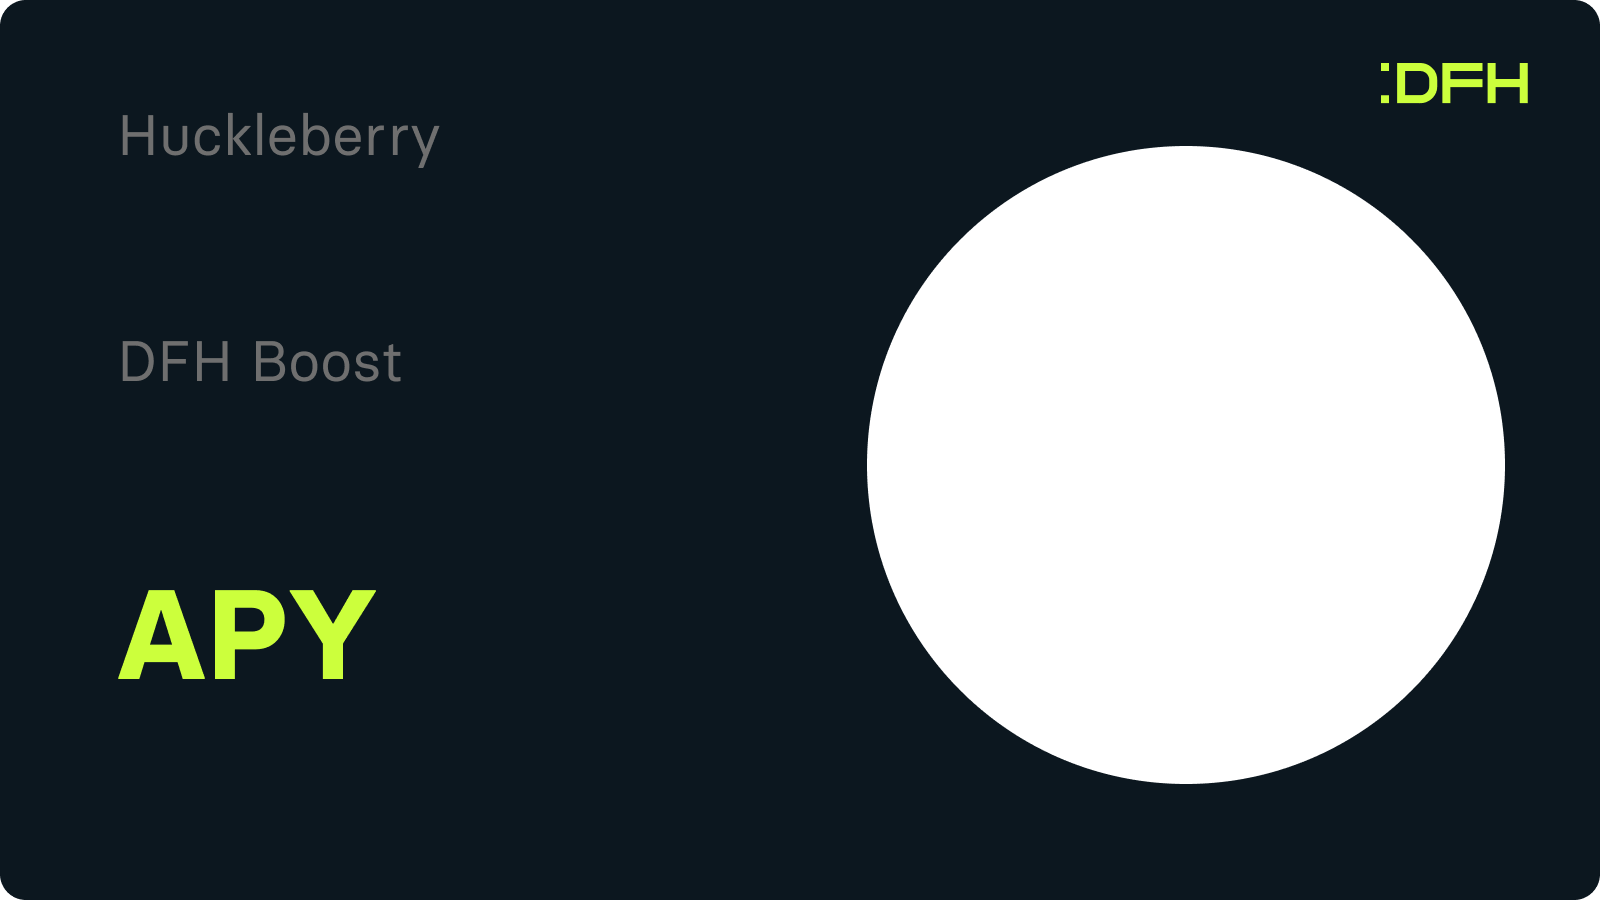
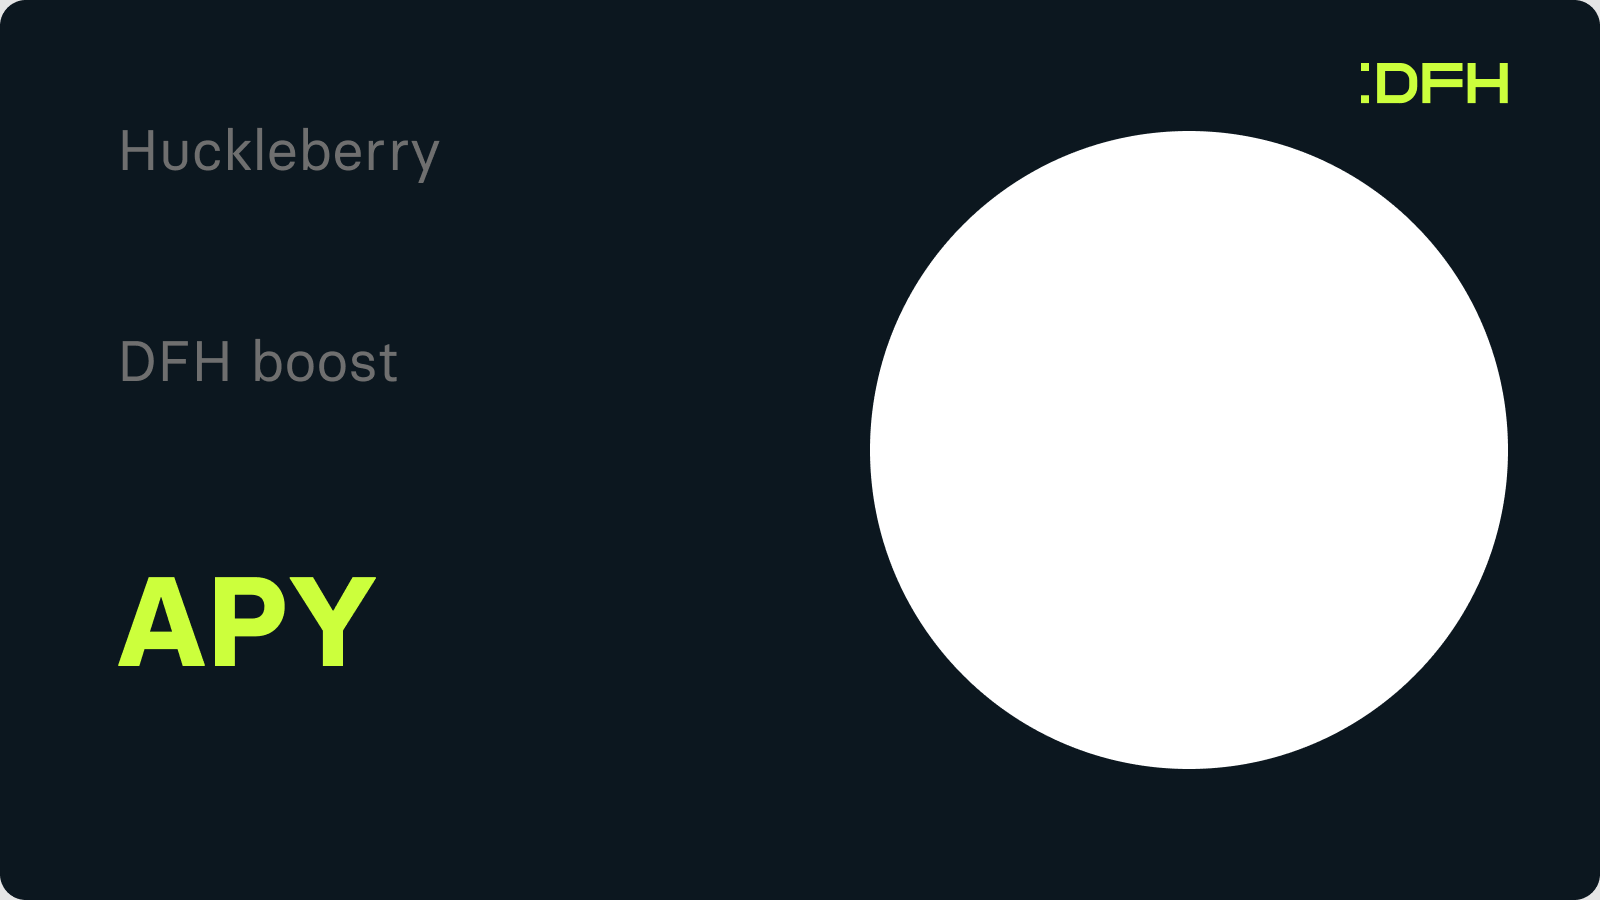
fix

diff --git a/src/api/router.ts b/src/api/router.ts
@@ -18,6 +18,18 @@ import * as Automate from '@api/schema/automate';
 import * as restakeStrategySchemas from '@api/schema/restakeStrategy';
 import * as treasurySchemas from '@api/schema/treasury';
 import Jimp from 'jimp';
+import { metricContractTableName } from '@models/Metric/Entity';
+import { contractTableName } from '@models/Protocol/Entity';
+import { apyBoost } from '@services/RestakeStrategy';
+import BN from 'bignumber.js';
+import { Blockchain } from '@models/types';
+
+interface AprMetric {
+  contract: string;
+  apr: number;
+  blockchain: Blockchain;
+  network: string;
+}
 
 export function route({ express, server }: { express: Express; server: Server }) {
   const apollo = new ApolloServer({
@@ -182,20 +194,60 @@ export function route({ express, server }: { express: Express; server: Server })
     const { protocolId } = req.params;
     const protocol = await container.model.protocolTable().where('id', protocolId).first();
 
-    const apyWithoutDFH = 'APY 197%';
-    const apyWithDFH = 'APY +432%';
-    const apyTotal = '678%';
-
     if (!protocol) {
-      return res.send('protocol not found');
+      return res.status(503).send('protocol not found');
     }
 
-    if (!protocol.icon) {
-      return res.send('protocol have no picture');
+    if (!protocol.previewPicture) {
+      return res.status(503).send('protocol have no picture');
     }
 
     const maxLogoWidth = 450;
     const maxLogoHeight = 450;
+
+    const database = container.database();
+    const aprMetrics: AprMetric[] = await container.model
+      .metricContractTable()
+      .distinctOn(`${metricContractTableName}.contract`)
+      .column(`${contractTableName}.blockchain`)
+      .column(`${contractTableName}.network`)
+      .column(`${metricContractTableName}.contract`)
+      .column(database.raw(`(${metricContractTableName}.data->>'aprYear')::numeric AS apr`))
+      .innerJoin(
+        contractTableName,
+        `${contractTableName}.id`,
+        `${metricContractTableName}.contract`,
+      )
+      .where(`${contractTableName}.protocol`, protocol.id)
+      .andWhere(database.raw(`${metricContractTableName}.data->>'aprYear' IS NOT NULL`))
+      .orderBy(`${metricContractTableName}.contract`)
+      .orderBy(`${metricContractTableName}.date`, 'DESC');
+
+    const calculatedApyList = await Promise.all(
+      aprMetrics.map(async (apr) => {
+        const boost = await apyBoost(
+          apr.blockchain,
+          apr.network,
+          10000,
+          new BN(apr.apr).toNumber(),
+        );
+
+        const actualBoost = new BN(boost).minus(apr.apr).toNumber();
+
+        return {
+          initial: new BN(apr.apr).toNumber(),
+          boosted: actualBoost > 0 ? actualBoost : 0,
+        };
+      }),
+    );
+
+    const avgInitialApy =
+      calculatedApyList.reduce((prev, curr) => new BN(prev).plus(curr.initial).toNumber(), 0) /
+      calculatedApyList.length;
+
+    const avgBoostedApy =
+      calculatedApyList.reduce((prev, curr) => new BN(prev).plus(curr.boosted).toNumber(), 0) /
+      calculatedApyList.length;
 
     const [
       templateInstance,
@@ -205,21 +257,37 @@ export function route({ express, server }: { express: Express; server: Server })
       totalApyFont,
     ] = await Promise.all([
       Jimp.read(`${__dirname}/../assets/opengraph-template.png`),
-      Jimp.read(protocol.icon),
+      Jimp.read(protocol.previewPicture),
       Jimp.loadFont(`${__dirname}/../assets/font-without-dfh/FCK4eZkmzDMwvOVkx7MoTdys.ttf.fnt`),
-
       Jimp.loadFont(`${__dirname}/../assets/font-with-dfh/KDHm2vWUrEv1xTEC3ilBxVL2.ttf.fnt`),
       Jimp.loadFont(`${__dirname}/../assets/font-total-apy/QHPbZ5kKUxcehQ40MdnPZLK9.ttf.fnt`),
     ]);
 
     // protocols's apy
-    await templateInstance.print(withoutDfhFont, 117, 160, apyWithoutDFH);
+    await templateInstance.print(
+      withoutDfhFont,
+      117,
+      175,
+      `APY ${avgInitialApy > 10000 ? '>10000' : avgInitialApy.toFixed()}%`,
+    );
 
     // boosted apy
-    await templateInstance.print(withDfhBoostedFont, 117, 390, apyWithDFH);
+    await templateInstance.print(
+      withDfhBoostedFont,
+      117,
+      380,
+      `APY ${avgBoostedApy > 10000 ? '>10000' : avgBoostedApy.toFixed()}%`,
+    );
 
     // total apy
-    await templateInstance.print(totalApyFont, 117, 670, apyTotal);
+    await templateInstance.print(
+      totalApyFont,
+      117,
+      660,
+      `${
+        avgBoostedApy + avgInitialApy > 20000 ? '>20000' : (avgBoostedApy + avgInitialApy).toFixed()
+      }%`,
+    );
 
     // protocol logo
     protocolLogoInstance.resize(maxLogoWidth, Jimp.AUTO);

diff --git a/src/queue/pools/swopfiLPFarming.ts b/src/queue/pools/swopfiLPFarming.ts
@@ -24,7 +24,7 @@ export default async (process: Process) => {
   if (!protocol) {
     protocol = await container.model
       .protocolService()
-      .create(adapterName, protocolName, protocolDescription, null, null, {}, false);
+      .create(adapterName, protocolName, protocolDescription, null, null, null, {}, false);
   }
   const contracts = await container.model.contractTable().where('protocol', protocol.id).select();
   const pools = (await axios.get<{ data: SwopFiPool[] }>(`https://backend.swop.fi/farming/info`))

diff --git a/src/services/RestakeStrategy/index.ts b/src/services/RestakeStrategy/index.ts
@@ -136,10 +136,11 @@ export async function apyBoost(
   network: string,
   balance: number,
   apy: number,
-) {
+): Promise<string> {
   const optimalPoints = await optimalRestake(blockchain, network, balance, apy);
   const lastPoint = optimalPoints[optimalPoints.length - 1];
   if (!lastPoint) return '0';
 
-  return new BN(lastPoint.v).minus(balance).div(balance).toString(10);
+  const num = new BN(lastPoint.v).minus(balance).div(balance);
+  return num.isFinite() ? num.toString(10) : '0';
 }

diff --git a/src/models/Protocol/Service.ts b/src/models/Protocol/Service.ts
@@ -29,6 +29,7 @@ export class ProtocolService {
     name: string,
     description: string = '',
     icon: string | null = null,
+    previewPicture: string | null = null,
     link: string | null = null,
     links: ProtocolLinkMap = {},
     hidden: boolean = false,
@@ -39,6 +40,7 @@ export class ProtocolService {
       name,
       description,
       icon,
+      previewPicture,
       link,
       links,
       hidden,

diff --git a/src/api/schema/protocol/index.ts b/src/api/schema/protocol/index.ts
@@ -1432,7 +1432,7 @@ export const ProtocolCreateMutation: GraphQLFieldConfig<any, Request> = {
     const { adapter, name, description, icon, link, links, hidden } = input;
     const created = await container.model
       .protocolService()
-      .create(adapter, name, description, icon, link, links, hidden);
+      .create(adapter, name, description, icon, null, link, links, hidden);
 
     return created;
   }),

diff --git a/src/queue/pools/masterChief.ts b/src/queue/pools/masterChief.ts
@@ -41,7 +41,7 @@ export default async (process: Process) => {
   if (!protocol) {
     protocol = await container.model
       .protocolService()
-      .create(adapterName, protocolName, protocolDescription, null, null, {}, false);
+      .create(adapterName, protocolName, protocolDescription, null, null, null, {}, false);
   }
 
   const blockchain = container.blockchain.ethereum;

diff --git a/src/queue/pools/pancakeStaking.ts b/src/queue/pools/pancakeStaking.ts
@@ -14,7 +14,7 @@ export default async (process: Process) => {
   if (!protocol) {
     protocol = await container.model
       .protocolService()
-      .create(adapterName, protocolName, protocolDescription, null, null, {}, false);
+      .create(adapterName, protocolName, protocolDescription, null, null, null, {}, false);
   }
 
   const res = await axios.get<string>(

diff --git a/src/queue/pools/quickSwapPolygonStaking.ts b/src/queue/pools/quickSwapPolygonStaking.ts
@@ -79,7 +79,7 @@ export default async (process: Process) => {
   if (!protocol) {
     protocol = await container.model
       .protocolService()
-      .create(adapterName, protocolName, protocolDescription, null, null, {}, false);
+      .create(adapterName, protocolName, protocolDescription, null, null, null, {}, false);
   }
 
   const res = await axios.get<string>(

diff --git a/src/migrations/M202201051418ProtocolPreviewPicture.ts b/src/migrations/M202201051418ProtocolPreviewPicture.ts
@@ -1,0 +1,8 @@
+import { SchemaBuilder } from 'knex';
+import { protocolTableName } from '@models/Protocol/Entity';
+
+export default async (schema: SchemaBuilder) => {
+  await schema.alterTable(protocolTableName, (table) => {
+    table.string('previewPicture').nullable();
+  });
+};

diff --git a/src/models/Protocol/Entity.ts b/src/models/Protocol/Entity.ts
@@ -25,6 +25,7 @@ export interface Protocol {
   hidden: boolean;
   updatedAt: Date;
   createdAt: Date;
+  previewPicture: string | null;
 }
 
 export const protocolTableName = 'protocol';
